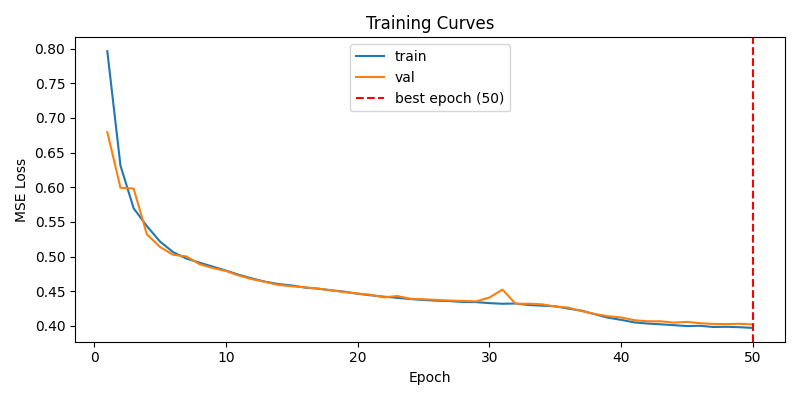
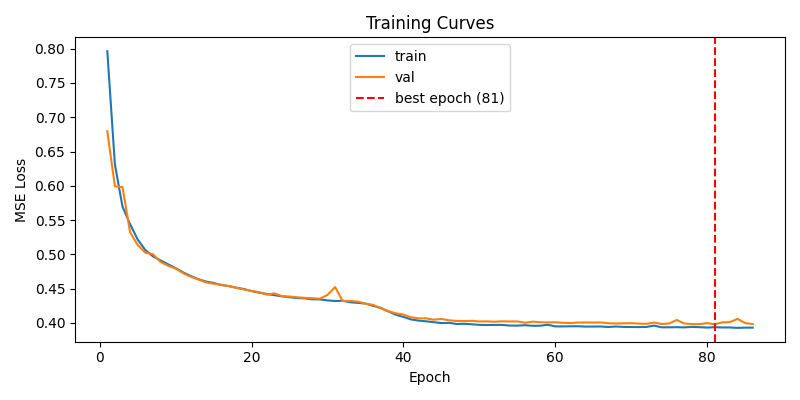
chore(evaluate): verify end-to-end evaluation run

diff --git a/src/evaluate.py b/src/evaluate.py
@@ -37,7 +37,8 @@ def select_threshold(errors_val: np.ndarray, y_val: np.ndarray) -> dict:
 
     precision, recall, thresholds = precision_recall_curve(y_val, errors_val)
     denom = precision[:-1] + recall[:-1]
-    f1_scores = np.where(denom > 0, 2 * precision[:-1] * recall[:-1] / denom, 0.0)
+    with np.errstate(invalid="ignore", divide="ignore"):
+        f1_scores = np.where(denom > 0, 2 * precision[:-1] * recall[:-1] / denom, 0.0)
     best_idx = int(np.argmax(f1_scores))
     threshold_f1 = float(thresholds[best_idx])
 